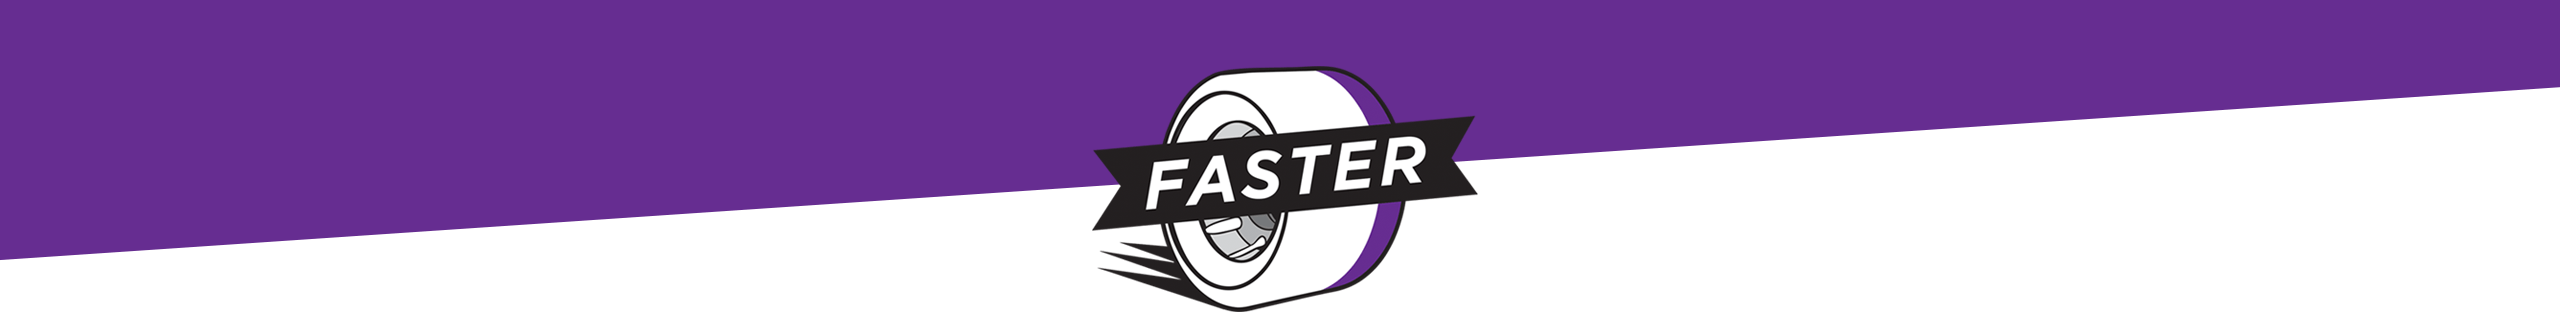
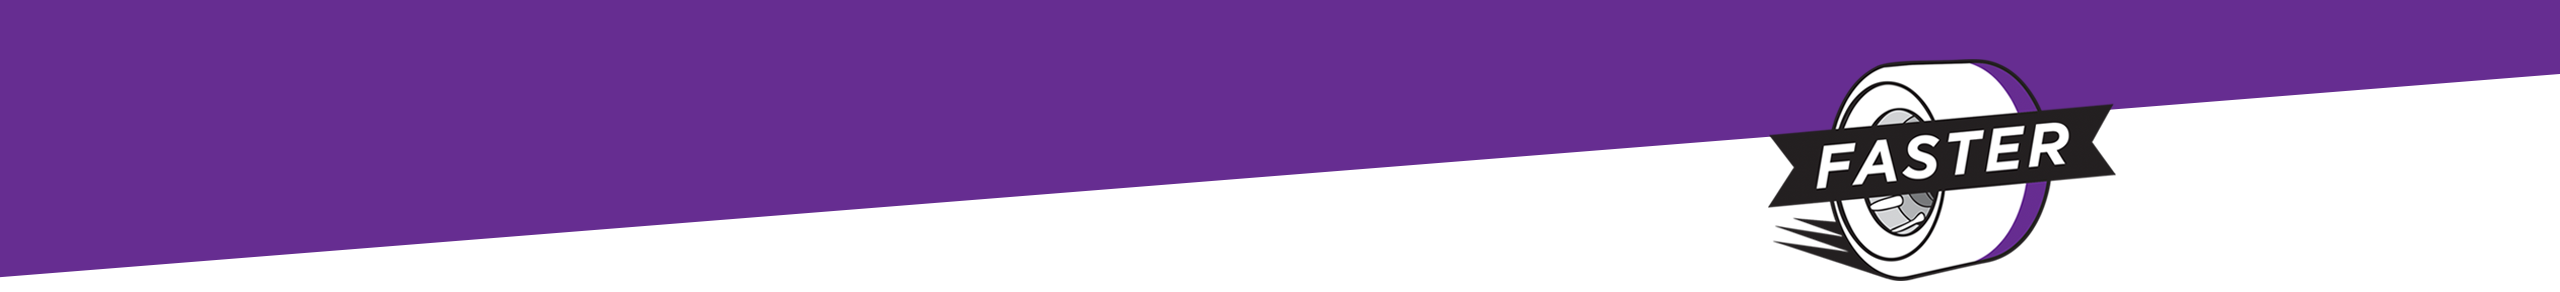
updating assets

Changed region(s): [[0.0, 0.1849, 0.875, 0.9863], [0.875, 0.2466, 1.0, 0.339]]

diff --git a/index.html b/index.html
@@ -21,7 +21,7 @@
  <style>
  .shadow {
   position: absolute;
-  margin-top: -2%;
+  margin-top: -1%;
   z-index: 10;
   max-width: 100%;
  }
@@ -50,11 +50,9 @@
           box-sizing: border-box;
         }
         </style>
-        <li><a href="#" class="button nav">ABOUT</a></li>
-        <li><a href="#" class="button nav">PRODUCTS</a></li>
-        <li><a href="#" class="button nav">CONTACT</a></li>
-<!--         <li><img src="img/logo_transparent.png" 
-        style=" width: 75px;"></li> -->
+        <li><a href="#About" class="button nav">ABOUT</a></li>
+        <li><a href="#Products" class="button nav">PRODUCTS</a></li>
+        <li><a href="#Get" class="button nav">GET</a></li>
       </ul>
     </div> 
   </div>
@@ -63,8 +61,8 @@
       <img src="images/banner.jpg">   
     </div>
 
+  <a name="About"></a> 
     <hr>
-
     <div class ="panel about">
      <p class="detail">TRUE TO THE <span class="alt">ART</span> </p>
       <div class ="content" style="
@@ -74,11 +72,11 @@
         <h5> We strive to bring you the highest quality roller skate wheel choices because at the end of the day, we understand. We love to skate ourselves and know what it feels like to be on wheels that compliment your skills perfectly. We want to maximize your ability to get the best combination of grip, roll, responsiveness and control on any surface.  Above all, well, we just want you to go faster.</h5>
       </div>
     </div>
-
-  <hr>
-  <div class="panel landing">
-      <p class="detail">OUR <span class="name">PRODUCTS</span> </p>
-    <div class="wrapper">
+ <a name="Products"></a> 
+<hr>
+    <div class="panel landing">
+        <p class="detail">OUR <span class="name">PRODUCTS</span> </p>
+      <div class="wrapper">
 
     <!-- GRID -->
     <ul id="Grid">
@@ -279,13 +277,13 @@
         </ul>
     </div>
   </div>
-
+  <a name="Get"></a> 
 <hr>
+</div>
 
-  <div class="panel bottom">
-     <p class="detail">GET <span class="alts">FASTER</span> </p>
-
-    <div class ="large-12 small-12 columns">
+<div class="row">
+  <div class="panel about">
+     <p class="detail">GET <span class="alts">FASTER</span></p>
 
       <div class="large-6 small-12 columns">
       <h5>DEALERS NEAR YOU</h5>
@@ -314,7 +312,6 @@
             <a href="mailto:suziephedrine@sydneyderbyskates.com" style="color:#8dc43f;">Email</a>
             </p></li>
 
-
             <li><img src="img/dealers/bruised.png" style="
               width: 200px;
               margin-top:-28px;
@@ -325,102 +322,96 @@
             Phone: (504) 304-1944 </br>
             <a href="mailto:info@bruisedboutique.com" style="color:#8dc43f;">Email</a>
             </p></li>
-
           </ul>
-        </div>
+      </div>
 
         <div class="large-6 columns">
-              <ul class="small-block-grid-2">
-                          <li style="
-                  padding-left: 25px;
-                  padding-top: 0px;
-                  padding-bottom: 0px;
-                  margin-top:-10px;
-              "><img src="img/dealers/medusa.jpg" style="width: 105px;">
-              <p>
-              Medusa Skates </br>
-              USA</br>
-              Phone: (512) 203-7203 </br>
-            <a href="mailto:medusaskates@gmail.com" style="color:#8dc43f;">Email</a>
-              </p></li>
+            <ul class="small-block-grid-2">
+              <li style="
+                padding-left: 25px;
+                padding-top: 0px;
+                padding-bottom: 0px;
+                margin-top:-10px;">
+                <img src="img/dealers/medusa.jpg" style="width: 105px;">
+                <p>
+                Medusa Skates </br>
+                USA</br>
+                Phone: (512) 203-7203 </br>
+                <a href="mailto:medusaskates@gmail.com" style="color:#8dc43f;">Email</a>
+            </p></li>
+
+          <li><img src="img/dealers/fifth.png" style="
+                width:140px;
+                padding-bottom:0px;">
+                <p>
+                5th Blocker Skates </br>
+                Scotland </br>
+                Phone: 0141 237 1443 </br>
+                <a href="info@5thblockerskates.co.uk" style="color:#8dc43f;">Email</a>
+                </p></li>
+              </ul>
+        </div>
+
+      <div class ="content" style="
+          padding-left: 90px;
+          padding-right: 90px;">
+        <h5> Stuff.</h5>
+      </div>
 
 
+      </div>
+      <hr>
 
-            <li><img src="img/dealers/fifth.png" style="
-                  width:140px;
-                  padding-bottom:0px;">
-                  <p>
-                  5th Blocker Skates </br>
-                  Scotland </br>
-                  Phone: 0141 237 1443 </br>
-                  <a href="info@5thblockerskates.co.uk" style="color:#8dc43f;">Email</a>
-                  </p></li>
+  <div class="panel bottom">
 
-
-            </li>
-          </ul>
-    </div>
-</div>
-  <div class ="large-12 small-12 columns">
-    <hr style="margin-top: 7%;">
      <p class="detail">CONTACT <span class="name">FASTER</span> </p>
-      <div class="large-6 small-12 columns" style="padding-top: 0px;">
-        <p>
-          FASTER Skates is based in Austin, TX. <br>
-          <br>
-          Faster Skates
-        <br>
-          Austin, TX 78723
-        <br>
-          P: 512.897.3271</p>
-          <a href="mailto:info@fasterskates.com">E:  info @ fasterskates . com</a> <br></p>
-       
 
-        <div class="large-3 small-3 columns">
-        <p> stuff in here </p>
-        </div>
-        
-        <div class="large-3 small-3 columns">
-        <p> stuff in here </p>
-        </div>
-        
-        <div class="large-3 small-3 columns">
-        <p> stuff in here </p>
-        </div>
+    <div class="large-6 small-6 columns">
+     <iframe height="577" allowTransparency="true" frameborder="0" scrolling="no" style="width:100%;border:none"  src="https://fasterskates.wufoo.com/embed/zye4k3x0d0h797/def/&header=hide"><a href="https://fasterskates.wufoo.com/forms/zye4k3x0d0h797/"></a>
+     </iframe><div id="wuf-adv" style="font-family:inherit;font-size: small;color:#a7a7a7;text-align:center;display:block;"><a href="http://www.wufoo.com"></a></div>
+    </div>
 
-        <div class="large-3 small-3 columns">
-        <p> stuff in here </p>
-        </div>
+      <div class="large-6 small-6 columns">
+        <p style="
+            font-size: .85em;"> 
+        FASTER Skates is based in Austin, TX. <br>
+        </br>
+        Faster Skates </br>
+        4525 Rimrock Trail </br>
+        Austin, TX 78723 </br>
+        </br>
+        P: 512.897.3271</p>
+        <a href="mailto:info@fasterskates.com">E: info@fasterskates.com</a></p>
+       </div>
+
+      <div class="large-6 small-6 columns">
+          <ul class="small-block-grid-3">
+        <li><a href="https://www.facebook.com/FasterSkates"><img title="Facebook" src="img/social/facebag.jpg" alt="Facebook"></a></li>
+        <li><a href="https://www.facebook.com/FasterSkates"><img title="Facebook" src="img/social/facebag.jpg" alt="Facebook"></a></li>
+        <li><a href="https://www.facebook.com/FasterSkates"><img title="Facebook" src="img/social/facebag.jpg" alt="Facebook"></a></li>
+          </ul>
       </div>
 
-    <div class="large-6 small-12 columns" style="padding-left:20px; margin-top:-5px; pading-right: 0px;padding-right: 0px;">
-          <div id="wufoo-zye4k3x0d0h797"><iframe id="wufooFormzye4k3x0d0h797" class="wufoo-form-container" height="436" allowtransparency="true" frameborder="0" scrolling="no" style="width:100%;border:none" src="https://fasterskates.wufoo.com/embed/zye4k3x0d0h797/def/embedKey=zye4k3x0d0h797732819&amp;entsource=&amp;referrer=&amp;header=hide">&lt;a href="https://fasterskates.wufoo.com/forms/zye4k3x0d0h797/" title="html form"&gt;Fill out my Wufoo form!&lt;/a&gt;</iframe></div>
-          <script src="http://wufoo.com/scripts/embed/form.js"></script><script type="text/javascript">var zye4k3x0d0h797;(function(d, t) {
-            var s = d.createElement(t), options = {
-              'userName':'fasterskates', 
-              'formHash':'zye4k3x0d0h797', 
-              'autoResize':true,
-              'height':'497',
-              'async':true,
-              'host':'wufoo.com',
-              'header':'hide', 
-              'ssl':true};
-              s.src = ('https:' == d.location.protocol ? 'https://' : 'http://') + 'wufoo.com/scripts/embed/form.js';
-              s.onload = s.onreadystatechange = function() {
-                var rs = this.readyState; if (rs) if (rs != 'complete') if (rs != 'loaded') return;
-                try { zye4k3x0d0h797 = new WufooForm();zye4k3x0d0h797.initialize(options);zye4k3x0d0h797.display(); } catch (e) {}};
-                var scr = d.getElementsByTagName(t)[0], par = scr.parentNode; par.insertBefore(s, scr);
-              })(document, 'script');</script>
-          </div>
-        </div>
+      <h5> Stuff.</h5>
+      <h5> Stuff.</h5>
+      <h5> Stuff.</h5>
+      <h5> Stuff.</h5>
+      <h5> Stuff.</h5>
+      <h5> Stuff.</h5>
+      <h5> Stuff.</h5>
 
-      <div class="copyleft">
+ <!--      <div class="large-12 small-12 columns"> -->
+   <!--    <div class="copyleft"> -->
         <a href="http://en.wikipedia.org/wiki/Copyleft"><img src="images/copyleft.png" height="18;" width="18;">&nbsp; copyleft</a>
-      </div>
+<!--       </div>  -->
+<!--       </div> -->
 
-    <hr style="margin-top: 20px;">
-  </div>
+<!--       <hr> -->
+      <h5> Stuff.</h5>
+   
+
 </div>
+
 
 <!-- TIRE MODALS -->
   <div id="demilune_tire" class="reveal-modal xlarge" data-reveal>

diff --git a/css/faster.css b/css/faster.css
@@ -5,8 +5,8 @@ p.detail {
   font-style: normal;
   font-size: 1.75em;
   text-rendering: optimizeLegibility;
-  margin-top: 0.2em;
-  margin-bottom: 2em;
+  padding-top: 4%;
+  padding-bottom: 4%;
   line-height: 1.2125em;}
 
 span.name {
@@ -89,7 +89,7 @@ body {
 
 body {
   background-image: url("../images/background.jpg");
-  background-repeat: repeat;
+/*  background-repeat: repeat repeat;*/
   background-size: 100%;
   background-position: center top; 
   margin: 0px;
@@ -1137,12 +1137,11 @@ p {
   font-weight: normal;
   font-size: .75em;
   line-height: 1.3;
-  margin-bottom: 1.25em;
+/*  margin-bottom: 1.25em;*/
   text-rendering: optimizeLegibility; }
   p aside {
     font-size: 0.875em;
-    line-height: 1.35;
-    font-style: italic; }
+    line-height: 1.35;}
 
 /* Default header styles */
 h2, h3, h4, {
@@ -1176,7 +1175,7 @@ h5 {
 /*  text-align: center;*/
   color: whitesmoke;
   font-style: normal;
-  font-size: 1.03em;
+  font-size: .9em;
   letter-spacing:1px;
   text-rendering: optimizeLegibility;
   line-height: 1.4em;
@@ -4227,39 +4226,25 @@ ul.pagination {
     background-color: #161616;
     opacity: .95;
     border-radius: 3px;
-    padding-top: 1%;
+/*    padding-top: 1%;*/
     padding-bottom: 5%; }
+  .panel.bottom {
+    -webkit-border-radius: 3px;
+    background-color: #737373;
+    max-height: 100%;
+    border-radius: 3px;}
   .panel.about {
     -webkit-border-radius: 3px;
     background-color: #808285;
     opacity: .88;
     border-radius: 3px;
-/*    padding-top: 5%;*/
-    padding-bottom: 6%; }
+    padding-bottom: 2%; }
   .panel.spanner {
     -webkit-border-radius: 3px;
     border-radius: 3px;
     background-color: #808285;
     opacity: .8;
     padding-top: 14%;}
-  .panel.bottom {
-    -webkit-border-radius: 3px;
-    max-height: 100%;
-    background-color: #737373;
-    padding-top: 1%;
-    border-radius: 3px;}
-  .panel.top {
-    -webkit-border-radius: 3px;
-    background-color: #808285;
-    border-radius: 3px;
-    padding-top: 5%;
-    padding-bottom: 10%; }
-  .panel.contact{
-    -webkit-border-radius: 3px; 
-    background-repeat: no-repeat;
-    background-size: 90%;
-    background-color: #808284;
-    border-radius: 3px;}
 
   .panel.product { {} 
 

diff --git a/css/template.css b/css/template.css
@@ -53,7 +53,7 @@ body{
 }
 
 .wrapper{
-	margin: 50px auto 0 auto;
+	margin: 0px auto 0 auto;
 	max-width: 90%;
 }
 
